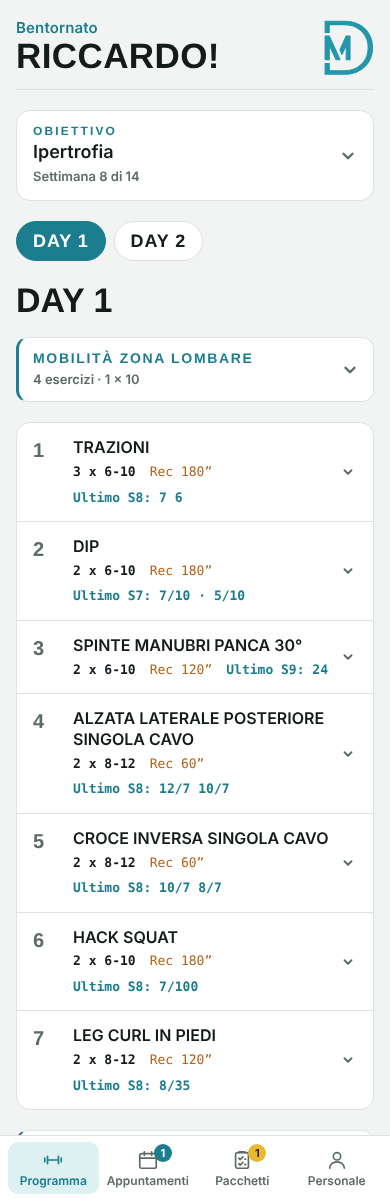
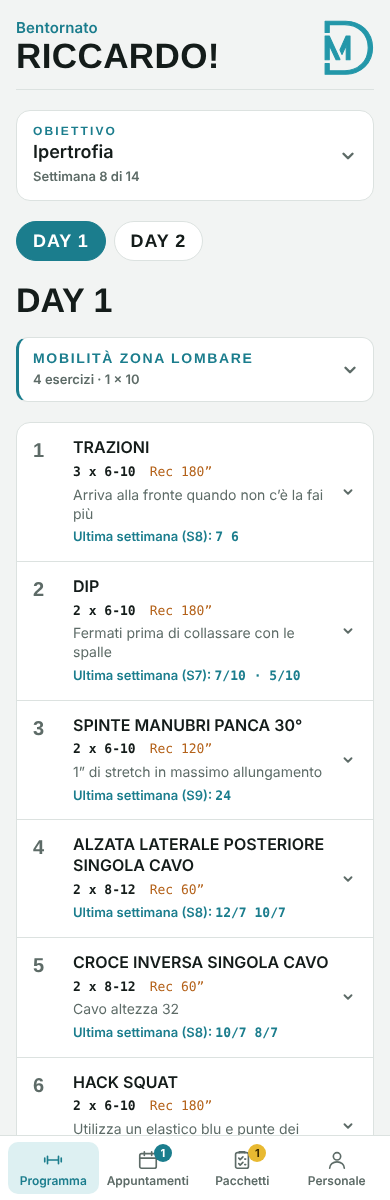
Siti clienti: ripartono sempre da Programma in cima
Claude-Session: https://claude.ai/code/session_01PNZjD9Cw3Up9MrF1RBQjmQ

diff --git a/alessio-3ab98633/index.html b/alessio-3ab98633/index.html
@@ -349,6 +349,8 @@ try { S = JSON.parse(document.getElementById('data').textContent); } catch(e){ S
 S.navbar = S.navbar!==false; S.inplay = S.inplay!==false; S.days = S.days || []; S.appts = S.appts || []; S.client = S.client || {name:''}; S.pre = S.pre || []; S.post = S.post || [];
 S.days.forEach(function(d){ (d.ex||[]).forEach(function(e){ if(!e.vids){ e.vids = e.v ? [{t:'',u:e.v}] : []; } delete e.v; e.log = e.log || []; if(e.lab==null) e.lab=''; }); });
 var ui = { tab:'train', day:0, edit:false, canEdit:false, saving:false, msg:'', dirty:false, le:null, ie:null };
+try{ if(SITE_START()){ if('scrollRestoration' in history) history.scrollRestoration='manual'; window.scrollTo(0,0); } }catch(e){}
+function SITE_START(){ return !!(window.SITE && window.SITE.form); }
 var ORIG = JSON.stringify(S);
 var draft = null;
 var app = document.getElementById('app');

diff --git a/andrea-24c18111/index.html b/andrea-24c18111/index.html
@@ -349,6 +349,8 @@ try { S = JSON.parse(document.getElementById('data').textContent); } catch(e){ S
 S.navbar = S.navbar!==false; S.inplay = S.inplay!==false; S.days = S.days || []; S.appts = S.appts || []; S.client = S.client || {name:''}; S.pre = S.pre || []; S.post = S.post || [];
 S.days.forEach(function(d){ (d.ex||[]).forEach(function(e){ if(!e.vids){ e.vids = e.v ? [{t:'',u:e.v}] : []; } delete e.v; e.log = e.log || []; if(e.lab==null) e.lab=''; }); });
 var ui = { tab:'train', day:0, edit:false, canEdit:false, saving:false, msg:'', dirty:false, le:null, ie:null };
+try{ if(SITE_START()){ if('scrollRestoration' in history) history.scrollRestoration='manual'; window.scrollTo(0,0); } }catch(e){}
+function SITE_START(){ return !!(window.SITE && window.SITE.form); }
 var ORIG = JSON.stringify(S);
 var draft = null;
 var app = document.getElementById('app');

diff --git a/andrea-efabd11f/index.html b/andrea-efabd11f/index.html
@@ -349,6 +349,8 @@ try { S = JSON.parse(document.getElementById('data').textContent); } catch(e){ S
 S.navbar = S.navbar!==false; S.inplay = S.inplay!==false; S.days = S.days || []; S.appts = S.appts || []; S.client = S.client || {name:''}; S.pre = S.pre || []; S.post = S.post || [];
 S.days.forEach(function(d){ (d.ex||[]).forEach(function(e){ if(!e.vids){ e.vids = e.v ? [{t:'',u:e.v}] : []; } delete e.v; e.log = e.log || []; if(e.lab==null) e.lab=''; }); });
 var ui = { tab:'train', day:0, edit:false, canEdit:false, saving:false, msg:'', dirty:false, le:null, ie:null };
+try{ if(SITE_START()){ if('scrollRestoration' in history) history.scrollRestoration='manual'; window.scrollTo(0,0); } }catch(e){}
+function SITE_START(){ return !!(window.SITE && window.SITE.form); }
 var ORIG = JSON.stringify(S);
 var draft = null;
 var app = document.getElementById('app');

diff --git a/antonio-f7c1d4c2/index.html b/antonio-f7c1d4c2/index.html
@@ -349,6 +349,8 @@ try { S = JSON.parse(document.getElementById('data').textContent); } catch(e){ S
 S.navbar = S.navbar!==false; S.inplay = S.inplay!==false; S.days = S.days || []; S.appts = S.appts || []; S.client = S.client || {name:''}; S.pre = S.pre || []; S.post = S.post || [];
 S.days.forEach(function(d){ (d.ex||[]).forEach(function(e){ if(!e.vids){ e.vids = e.v ? [{t:'',u:e.v}] : []; } delete e.v; e.log = e.log || []; if(e.lab==null) e.lab=''; }); });
 var ui = { tab:'train', day:0, edit:false, canEdit:false, saving:false, msg:'', dirty:false, le:null, ie:null };
+try{ if(SITE_START()){ if('scrollRestoration' in history) history.scrollRestoration='manual'; window.scrollTo(0,0); } }catch(e){}
+function SITE_START(){ return !!(window.SITE && window.SITE.form); }
 var ORIG = JSON.stringify(S);
 var draft = null;
 var app = document.getElementById('app');

diff --git a/arianna-1743af21/index.html b/arianna-1743af21/index.html
@@ -349,6 +349,8 @@ try { S = JSON.parse(document.getElementById('data').textContent); } catch(e){ S
 S.navbar = S.navbar!==false; S.inplay = S.inplay!==false; S.days = S.days || []; S.appts = S.appts || []; S.client = S.client || {name:''}; S.pre = S.pre || []; S.post = S.post || [];
 S.days.forEach(function(d){ (d.ex||[]).forEach(function(e){ if(!e.vids){ e.vids = e.v ? [{t:'',u:e.v}] : []; } delete e.v; e.log = e.log || []; if(e.lab==null) e.lab=''; }); });
 var ui = { tab:'train', day:0, edit:false, canEdit:false, saving:false, msg:'', dirty:false, le:null, ie:null };
+try{ if(SITE_START()){ if('scrollRestoration' in history) history.scrollRestoration='manual'; window.scrollTo(0,0); } }catch(e){}
+function SITE_START(){ return !!(window.SITE && window.SITE.form); }
 var ORIG = JSON.stringify(S);
 var draft = null;
 var app = document.getElementById('app');

diff --git a/chiara-970df284/index.html b/chiara-970df284/index.html
@@ -349,6 +349,8 @@ try { S = JSON.parse(document.getElementById('data').textContent); } catch(e){ S
 S.navbar = S.navbar!==false; S.inplay = S.inplay!==false; S.days = S.days || []; S.appts = S.appts || []; S.client = S.client || {name:''}; S.pre = S.pre || []; S.post = S.post || [];
 S.days.forEach(function(d){ (d.ex||[]).forEach(function(e){ if(!e.vids){ e.vids = e.v ? [{t:'',u:e.v}] : []; } delete e.v; e.log = e.log || []; if(e.lab==null) e.lab=''; }); });
 var ui = { tab:'train', day:0, edit:false, canEdit:false, saving:false, msg:'', dirty:false, le:null, ie:null };
+try{ if(SITE_START()){ if('scrollRestoration' in history) history.scrollRestoration='manual'; window.scrollTo(0,0); } }catch(e){}
+function SITE_START(){ return !!(window.SITE && window.SITE.form); }
 var ORIG = JSON.stringify(S);
 var draft = null;
 var app = document.getElementById('app');

diff --git a/christian-66ad7a56/index.html b/christian-66ad7a56/index.html
@@ -349,6 +349,8 @@ try { S = JSON.parse(document.getElementById('data').textContent); } catch(e){ S
 S.navbar = S.navbar!==false; S.inplay = S.inplay!==false; S.days = S.days || []; S.appts = S.appts || []; S.client = S.client || {name:''}; S.pre = S.pre || []; S.post = S.post || [];
 S.days.forEach(function(d){ (d.ex||[]).forEach(function(e){ if(!e.vids){ e.vids = e.v ? [{t:'',u:e.v}] : []; } delete e.v; e.log = e.log || []; if(e.lab==null) e.lab=''; }); });
 var ui = { tab:'train', day:0, edit:false, canEdit:false, saving:false, msg:'', dirty:false, le:null, ie:null };
+try{ if(SITE_START()){ if('scrollRestoration' in history) history.scrollRestoration='manual'; window.scrollTo(0,0); } }catch(e){}
+function SITE_START(){ return !!(window.SITE && window.SITE.form); }
 var ORIG = JSON.stringify(S);
 var draft = null;
 var app = document.getElementById('app');

diff --git a/daniele-ae7c1935/index.html b/daniele-ae7c1935/index.html
@@ -349,6 +349,8 @@ try { S = JSON.parse(document.getElementById('data').textContent); } catch(e){ S
 S.navbar = S.navbar!==false; S.inplay = S.inplay!==false; S.days = S.days || []; S.appts = S.appts || []; S.client = S.client || {name:''}; S.pre = S.pre || []; S.post = S.post || [];
 S.days.forEach(function(d){ (d.ex||[]).forEach(function(e){ if(!e.vids){ e.vids = e.v ? [{t:'',u:e.v}] : []; } delete e.v; e.log = e.log || []; if(e.lab==null) e.lab=''; }); });
 var ui = { tab:'train', day:0, edit:false, canEdit:false, saving:false, msg:'', dirty:false, le:null, ie:null };
+try{ if(SITE_START()){ if('scrollRestoration' in history) history.scrollRestoration='manual'; window.scrollTo(0,0); } }catch(e){}
+function SITE_START(){ return !!(window.SITE && window.SITE.form); }
 var ORIG = JSON.stringify(S);
 var draft = null;
 var app = document.getElementById('app');

diff --git a/danilo-8fbfa905/index.html b/danilo-8fbfa905/index.html
@@ -349,6 +349,8 @@ try { S = JSON.parse(document.getElementById('data').textContent); } catch(e){ S
 S.navbar = S.navbar!==false; S.inplay = S.inplay!==false; S.days = S.days || []; S.appts = S.appts || []; S.client = S.client || {name:''}; S.pre = S.pre || []; S.post = S.post || [];
 S.days.forEach(function(d){ (d.ex||[]).forEach(function(e){ if(!e.vids){ e.vids = e.v ? [{t:'',u:e.v}] : []; } delete e.v; e.log = e.log || []; if(e.lab==null) e.lab=''; }); });
 var ui = { tab:'train', day:0, edit:false, canEdit:false, saving:false, msg:'', dirty:false, le:null, ie:null };
+try{ if(SITE_START()){ if('scrollRestoration' in history) history.scrollRestoration='manual'; window.scrollTo(0,0); } }catch(e){}
+function SITE_START(){ return !!(window.SITE && window.SITE.form); }
 var ORIG = JSON.stringify(S);
 var draft = null;
 var app = document.getElementById('app');

diff --git a/denis-9e500108/index.html b/denis-9e500108/index.html
@@ -349,6 +349,8 @@ try { S = JSON.parse(document.getElementById('data').textContent); } catch(e){ S
 S.navbar = S.navbar!==false; S.inplay = S.inplay!==false; S.days = S.days || []; S.appts = S.appts || []; S.client = S.client || {name:''}; S.pre = S.pre || []; S.post = S.post || [];
 S.days.forEach(function(d){ (d.ex||[]).forEach(function(e){ if(!e.vids){ e.vids = e.v ? [{t:'',u:e.v}] : []; } delete e.v; e.log = e.log || []; if(e.lab==null) e.lab=''; }); });
 var ui = { tab:'train', day:0, edit:false, canEdit:false, saving:false, msg:'', dirty:false, le:null, ie:null };
+try{ if(SITE_START()){ if('scrollRestoration' in history) history.scrollRestoration='manual'; window.scrollTo(0,0); } }catch(e){}
+function SITE_START(){ return !!(window.SITE && window.SITE.form); }
 var ORIG = JSON.stringify(S);
 var draft = null;
 var app = document.getElementById('app');

diff --git a/eduardo-3b7eaf04/index.html b/eduardo-3b7eaf04/index.html
@@ -349,6 +349,8 @@ try { S = JSON.parse(document.getElementById('data').textContent); } catch(e){ S
 S.navbar = S.navbar!==false; S.inplay = S.inplay!==false; S.days = S.days || []; S.appts = S.appts || []; S.client = S.client || {name:''}; S.pre = S.pre || []; S.post = S.post || [];
 S.days.forEach(function(d){ (d.ex||[]).forEach(function(e){ if(!e.vids){ e.vids = e.v ? [{t:'',u:e.v}] : []; } delete e.v; e.log = e.log || []; if(e.lab==null) e.lab=''; }); });
 var ui = { tab:'train', day:0, edit:false, canEdit:false, saving:false, msg:'', dirty:false, le:null, ie:null };
+try{ if(SITE_START()){ if('scrollRestoration' in history) history.scrollRestoration='manual'; window.scrollTo(0,0); } }catch(e){}
+function SITE_START(){ return !!(window.SITE && window.SITE.form); }
 var ORIG = JSON.stringify(S);
 var draft = null;
 var app = document.getElementById('app');

diff --git a/elena-1fab2a20/index.html b/elena-1fab2a20/index.html
@@ -349,6 +349,8 @@ try { S = JSON.parse(document.getElementById('data').textContent); } catch(e){ S
 S.navbar = S.navbar!==false; S.inplay = S.inplay!==false; S.days = S.days || []; S.appts = S.appts || []; S.client = S.client || {name:''}; S.pre = S.pre || []; S.post = S.post || [];
 S.days.forEach(function(d){ (d.ex||[]).forEach(function(e){ if(!e.vids){ e.vids = e.v ? [{t:'',u:e.v}] : []; } delete e.v; e.log = e.log || []; if(e.lab==null) e.lab=''; }); });
 var ui = { tab:'train', day:0, edit:false, canEdit:false, saving:false, msg:'', dirty:false, le:null, ie:null };
+try{ if(SITE_START()){ if('scrollRestoration' in history) history.scrollRestoration='manual'; window.scrollTo(0,0); } }catch(e){}
+function SITE_START(){ return !!(window.SITE && window.SITE.form); }
 var ORIG = JSON.stringify(S);
 var draft = null;
 var app = document.getElementById('app');
